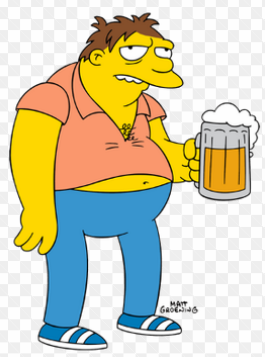
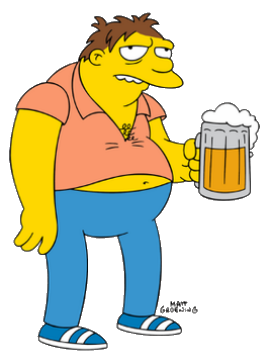
Redesign battle screen and clean up character portrait backgrounds
Mirrors the dev-branch commit: full-bleed Slay the Spire-style battle
layout (combatants standing on the scene, HP bars under each sprite,
enemy intent badges, an energy orb, fanned card-shaped ability buttons)
and wires the uploaded Disco_Zombie_Tapped_Out.webp to the generic
zombie enemies.

Also removes the baked-in opaque backgrounds from 12 character
portraits that had never gotten the transparency treatment Homer/Bart/
Marge/Lisa/Maggie already had: Moe, Ned Flanders, Apu, Barney, Chief
Wiggum, Krusty, Milhouse, Mr. Burns, Nelson, Principal Skinner, Ralph,
and Smithers. Ten of these had a checkerboard-preview pattern baked
into opaque RGB (not real transparency) and were cleaned via flood-fill
from the image border; Apu's had a full Kwik-E-Mart scene behind him
rather than a flat background, so that one needed real subject
segmentation (U2-Net/rembg) plus manual cleanup of a stray connected
shelf fragment. Same filenames, same dimensions -- no code changes
needed beyond what's already in data/assets.js.

Claude-Session: https://claude.ai/code/session_01BLhYftVG5RxN5Pn7gb7G5F

diff --git a/public/style.css b/public/style.css
@@ -68,7 +68,7 @@ body {
    screens.js -- never hardcode an asset path here, so new art can be
    swapped in from one place. position:fixed takes this screen out of
    #app's max-width flow so it always fills the real viewport. */
-body.menu-active #top-bar { display: none; }
+body.full-bleed-active #top-bar { display: none; }
 
 .console-menu-screen {
   position: fixed;
@@ -283,38 +283,64 @@ canvas#boardCanvas {
 .mayhem-readout { color: #ff5a3c; font-weight: 800; font-size: 0.85rem; letter-spacing: 1px; margin-top: 4px; }
 
 .hp-bar-outer {
-  width: 160px;
-  height: 16px;
+  position: relative;
+  width: 130px;
+  height: 18px;
   background: #400;
-  border-radius: 8px;
+  border-radius: 9px;
   overflow: hidden;
   border: 2px solid #000;
   margin: 0 auto;
 }
 .hp-bar-inner { height: 100%; width: 100%; background: #3ec24c; transition: width 0.2s; }
-.hp-text { font-size: 0.75rem; color: #ccc; }
+.hp-bar-label {
+  position: absolute;
+  inset: 0;
+  display: flex;
+  align-items: center;
+  justify-content: center;
+  font-size: 0.65rem;
+  font-weight: 800;
+  color: #fff;
+  text-shadow: 1px 1px 1px rgba(0, 0, 0, 0.8);
+}
 
-/* ---------------- Battle screen ---------------- */
+/* ---------------- Battle screen ----------------
+   Full-bleed like the console menu/episode-reveal screens (position:fixed
+   takes it out of #app's max-width flow); the scene fills the viewport and
+   combatants stand directly on it rather than inside a boxed panel, closer
+   to a Slay the Spire-style battle layout than a bordered widget. */
 .battle-screen {
-  padding: 10px;
+  position: fixed;
+  inset: 0;
+  z-index: 8;
+  display: flex;
+  flex-direction: column;
   background-size: cover;
   background-position: center;
   background-repeat: no-repeat;
   background-color: #1b1b1f;
-  min-height: calc(100vh - 52px);
+  padding: 0;
 }
+.battle-topbar { display: flex; justify-content: flex-end; padding: 14px 20px 0; }
+.mayhem-readout {
+  color: #ff5a3c;
+  font-weight: 800;
+  font-size: 0.8rem;
+  letter-spacing: 1px;
+  background: rgba(0, 0, 0, 0.45);
+  padding: 4px 10px;
+  border-radius: 8px;
+}
+
 .battle-stage {
   position: relative;
+  flex: 1;
   display: flex;
-  align-items: center;
+  align-items: flex-end;
   justify-content: space-between;
   gap: 20px;
-  background: rgba(10, 10, 14, 0.45);
-  border-radius: 12px;
-  padding: 20px;
-  max-width: 900px;
-  min-height: 320px;
-  margin: 0 auto;
+  padding: 0 6vw 20px;
 }
 .battle-stage.shake { animation: battleShake 0.35s; }
 @keyframes battleShake {
@@ -324,46 +350,122 @@ canvas#boardCanvas {
   60% { transform: translateX(-5px); }
   80% { transform: translateX(4px); }
 }
-.battle-side { display: flex; flex-direction: column; align-items: center; gap: 4px; position: relative; }
-.battle-side-player { flex: 0 0 180px; }
-.battle-side-enemies { flex: 1; display: flex; flex-wrap: wrap; gap: 16px; justify-content: center; align-items: flex-start; }
-.battle-vs { font-weight: 900; font-size: 1.4rem; color: #f6d217; }
-.battle-portrait { height: 140px; width: auto; object-fit: contain; filter: drop-shadow(0 6px 8px rgba(0, 0, 0, 0.5)); }
-.battle-portrait-fallback { font-size: 5rem; }
-.battle-name { font-weight: 800; }
-.energy-readout { font-weight: 800; color: #38b6ff; }
+
+.battle-combatant { display: flex; flex-direction: column; align-items: center; gap: 4px; position: relative; }
+.battle-combatant-player { flex: 0 0 200px; }
+.battle-enemies-row { flex: 1; display: flex; flex-wrap: wrap; gap: 24px; justify-content: center; align-items: flex-end; }
+
+.battle-portrait { height: min(30vh, 220px); width: auto; object-fit: contain; filter: drop-shadow(0 10px 12px rgba(0, 0, 0, 0.55)); }
+.battle-portrait-fallback { font-size: 5rem; filter: drop-shadow(0 10px 12px rgba(0, 0, 0, 0.55)); }
+
+.combatant-footer { display: flex; flex-direction: column; align-items: center; gap: 3px; background: rgba(0, 0, 0, 0.4); border-radius: 8px; padding: 4px 10px; }
+.combatant-name { font-weight: 800; font-size: 0.8rem; text-shadow: 1px 1px 1px #000; }
 
 .enemy-slot { display: flex; flex-direction: column; align-items: center; gap: 4px; position: relative; border-radius: 10px; transition: transform 0.15s ease; }
 .enemy-slot.dead { opacity: 0.25; pointer-events: none; }
-.battle-enemies.targeting-mode .enemy-slot:not(.dead) { cursor: pointer; outline: 2px dashed rgba(246, 210, 23, 0.6); }
-.battle-enemies.targeting-mode .enemy-slot:not(.dead):hover { transform: scale(1.06); }
-.enemy-intent { font-weight: 800; font-size: 0.9rem; background: rgba(0, 0, 0, 0.55); border-radius: 8px; padding: 2px 8px; min-height: 1.4em; }
-.status-row { display: flex; gap: 4px; flex-wrap: wrap; justify-content: center; font-size: 0.75rem; font-weight: 700; }
-.status-pip { background: rgba(0, 0, 0, 0.4); border-radius: 6px; padding: 1px 5px; }
+.battle-enemies-row.targeting-mode .enemy-slot:not(.dead) { cursor: pointer; }
+.battle-enemies-row.targeting-mode .enemy-slot:not(.dead) .battle-portrait,
+.battle-enemies-row.targeting-mode .enemy-slot:not(.dead) .battle-portrait-fallback {
+  outline: 3px dashed rgba(246, 210, 23, 0.7);
+  outline-offset: 6px;
+  border-radius: 12px;
+}
+.battle-enemies-row.targeting-mode .enemy-slot:not(.dead):hover { transform: scale(1.06); }
+.enemy-intent { font-weight: 800; font-size: 0.85rem; background: rgba(0, 0, 0, 0.6); border-radius: 8px; padding: 2px 8px; min-height: 1.4em; }
+.status-row { display: flex; gap: 4px; flex-wrap: wrap; justify-content: center; font-size: 0.72rem; font-weight: 700; }
+.status-pip { background: rgba(0, 0, 0, 0.45); border-radius: 6px; padding: 1px 5px; }
 
-.battle-log { max-width: 900px; margin: 8px auto; font-size: 0.8rem; color: #c9c9d3; text-align: left; min-height: 20px; }
+.battle-log {
+  max-width: 480px;
+  margin: 0 auto;
+  font-size: 0.78rem;
+  color: #c9c9d3;
+  text-align: center;
+  min-height: 18px;
+  text-shadow: 1px 1px 1px #000;
+}
 
-.battle-abilities { display: flex; gap: 10px; flex-wrap: wrap; justify-content: center; max-width: 900px; margin: 10px auto 0; }
+.battle-hand-bar {
+  display: flex;
+  align-items: center;
+  gap: 14px;
+  padding: 12px 20px 20px;
+  background: linear-gradient(to top, rgba(0, 0, 0, 0.55), rgba(0, 0, 0, 0));
+}
+
+.energy-orb {
+  flex: 0 0 auto;
+  width: 54px;
+  height: 54px;
+  border-radius: 50%;
+  background: radial-gradient(circle at 35% 30%, #6fd0ff, #0e63a8 70%);
+  border: 3px solid #38b6ff;
+  display: flex;
+  align-items: baseline;
+  justify-content: center;
+  color: #fff;
+  font-weight: 900;
+  font-size: 1.4rem;
+  box-shadow: 0 0 14px rgba(56, 182, 255, 0.6);
+}
+.energy-orb small { font-size: 0.7rem; font-weight: 700; margin-left: 1px; }
+
+.battle-abilities { flex: 1; display: flex; gap: 10px; justify-content: center; overflow-x: auto; padding: 10px 0; }
 .ability-btn {
-  background: #26262e;
-  border: 2px solid #444;
-  border-radius: 10px;
-  padding: 8px 10px;
-  width: 150px;
+  flex: 0 0 auto;
+  background: linear-gradient(to bottom, #33333c, #26262e);
+  border: 2px solid #555;
+  border-radius: 14px 14px 8px 8px;
+  padding: 10px 8px 8px;
+  width: 108px;
   color: #fff8ea;
   cursor: pointer;
   display: flex;
   flex-direction: column;
   align-items: center;
-  gap: 2px;
+  gap: 3px;
+  position: relative;
+  transition: transform 0.15s ease, border-color 0.15s ease;
 }
-.ability-btn:hover:not(:disabled) { border-color: #f6d217; }
+.ability-btn:not(:last-child) { margin-right: -14px; }
+.ability-btn:hover:not(:disabled) { border-color: #f6d217; transform: translateY(-10px); z-index: 2; }
 .ability-btn:disabled { opacity: 0.4; cursor: not-allowed; }
-.ability-btn.targeting { border-color: #3ec24c; box-shadow: 0 0 0 2px rgba(62, 194, 76, 0.5); }
-.ability-cost { font-size: 0.7rem; color: #f6d217; font-weight: 800; }
-.ability-emoji { font-size: 1.6rem; }
-.ability-name { font-weight: 700; font-size: 0.85rem; }
-.ability-desc { font-size: 0.68rem; color: #c9c9d3; text-align: center; }
+.ability-btn.targeting { border-color: #3ec24c; box-shadow: 0 0 0 2px rgba(62, 194, 76, 0.5); transform: translateY(-10px); }
+.ability-cost {
+  position: absolute;
+  top: -8px;
+  left: -8px;
+  width: 22px;
+  height: 22px;
+  border-radius: 50%;
+  background: #0e63a8;
+  border: 2px solid #38b6ff;
+  display: flex;
+  align-items: center;
+  justify-content: center;
+  font-size: 0.7rem;
+  color: #fff;
+  font-weight: 800;
+}
+.ability-emoji { font-size: 1.7rem; margin-top: 4px; }
+.ability-name { font-weight: 700; font-size: 0.78rem; text-align: center; }
+.ability-desc { font-size: 0.62rem; color: #c9c9d3; text-align: center; line-height: 1.25; }
+
+.end-turn-btn {
+  flex: 0 0 auto;
+  background: #f6d217;
+  color: #1b1b1f;
+  border: none;
+  border-radius: 12px;
+  padding: 10px 18px;
+  font-weight: 900;
+  font-size: 0.85rem;
+  line-height: 1.2;
+  cursor: pointer;
+  box-shadow: 0 4px 0 #b89b0f;
+}
+.end-turn-btn:hover { background: #ffe14d; }
+.end-turn-btn:active { transform: translateY(3px); box-shadow: 0 1px 0 #b89b0f; }
 
 .floating-number {
   position: absolute;
@@ -383,7 +485,7 @@ canvas#boardCanvas {
 }
 
 /* ---------------- Boss intro ---------------- */
-.boss-intro-screen { display: flex; align-items: center; justify-content: center; min-height: calc(100vh - 52px); background: #0a0a0e; }
+.boss-intro-screen { position: fixed; inset: 0; z-index: 9; display: flex; align-items: center; justify-content: center; background: #0a0a0e; }
 .boss-intro-content { text-align: center; cursor: pointer; padding: 30px; max-width: 500px; }
 .boss-intro-portrait { height: 200px; width: auto; object-fit: contain; margin-bottom: 12px; filter: drop-shadow(0 8px 10px rgba(0, 0, 0, 0.6)); }
 .boss-intro-name {
@@ -400,7 +502,7 @@ canvas#boardCanvas {
 #banner-text {
   position: fixed;
   left: 50%;
-  bottom: 12%;
+  bottom: 20%;
   transform: translateX(-50%);
   z-index: 40;
   max-width: min(90vw, 560px);

diff --git a/public/src/ui/screens.js b/public/src/ui/screens.js
@@ -27,9 +27,9 @@ const SCREEN_IDS = [
   'screen-run-failure',
 ];
 
-// Screens that get the full-bleed console title-screen treatment: no top
-// bar, background art fills the real viewport instead of #app's max-width.
-const MENU_ACTIVE_SCREEN_IDS = new Set(['screen-main-menu', 'screen-episode-reveal']);
+// Screens that get the full-bleed treatment: no top bar, background art
+// fills the real viewport instead of #app's max-width.
+const FULL_BLEED_SCREEN_IDS = new Set(['screen-main-menu', 'screen-episode-reveal', 'screen-battle', 'screen-boss-intro']);
 
 const $ = (id) => document.getElementById(id);
 
@@ -44,7 +44,7 @@ export function showScreen(id) {
   for (const screenId of SCREEN_IDS) {
     $(screenId).classList.toggle('hidden', screenId !== id);
   }
-  document.body.classList.toggle('menu-active', MENU_ACTIVE_SCREEN_IDS.has(id));
+  document.body.classList.toggle('full-bleed-active', FULL_BLEED_SCREEN_IDS.has(id));
 }
 
 export function updateMetaReadout(meta) {
@@ -234,7 +234,7 @@ export function populateBossIntro(boss, onStart) {
 
 // ---------- BATTLE ----------
 function resolveEnemyPortrait(templateId) {
-  return getAssetUrl('bosses', templateId) || getAssetUrl('characters', templateId) || null;
+  return getAssetUrl('bosses', templateId) || getAssetUrl('enemies', templateId) || getAssetUrl('characters', templateId) || null;
 }
 
 function statusPipsHtml(statuses) {
@@ -270,11 +270,12 @@ export function populateBattle(battle, runState, handlers) {
     const portraitUrl = resolveEnemyPortrait(enemy.templateId);
     slot.innerHTML = `
       <div class="enemy-intent"></div>
-      ${portraitUrl ? `<img class="battle-portrait enemy-portrait" src="${portraitUrl}" alt="" />` : `<div class="battle-portrait-fallback">${enemy.emoji}</div>`}
-      <div class="battle-name">${enemy.name}</div>
-      <div class="hp-bar-outer"><div class="hp-bar-inner"></div></div>
-      <div class="hp-text"></div>
       <div class="status-row"></div>
+      ${portraitUrl ? `<img class="battle-portrait enemy-portrait" src="${portraitUrl}" alt="" />` : `<div class="battle-portrait-fallback">${enemy.emoji}</div>`}
+      <div class="combatant-footer">
+        <div class="combatant-name">${enemy.name}</div>
+        <div class="hp-bar-outer"><div class="hp-bar-inner"></div><span class="hp-bar-label"></span></div>
+      </div>
     `;
     slot.addEventListener('click', () => handlers.onTargetEnemy(enemy.instanceId));
     enemiesContainer.appendChild(slot);
@@ -308,7 +309,8 @@ export function renderBattle(battle, runState) {
   $('battle-player-hp-bar').style.background = p.hp / p.maxHp < 0.3 ? '#d0021b' : '#3ec24c';
   $('battle-player-hp-text').textContent = `${Math.max(0, Math.round(p.hp))} / ${p.maxHp}`;
   $('battle-player-statuses').innerHTML = statusPipsHtml(p.statuses);
-  $('battle-energy-readout').textContent = `⚡ ${p.energy} / ${p.maxEnergy}`;
+  $('battle-energy-value').textContent = p.energy;
+  document.querySelector('#battle-energy-readout small').textContent = `/${p.maxEnergy}`;
   $('battle-mayhem-readout').textContent = `☠ MAYHEM: ${runState.mayhem}%`;
 
   for (const enemy of battle.enemies) {
@@ -317,7 +319,7 @@ export function renderBattle(battle, runState) {
     const dead = enemy.hp <= 0;
     slot.classList.toggle('dead', dead);
     slot.querySelector('.hp-bar-inner').style.width = `${Math.max(0, (enemy.hp / enemy.maxHp) * 100)}%`;
-    slot.querySelector('.hp-text').textContent = `${Math.max(0, Math.round(enemy.hp))} / ${enemy.maxHp}`;
+    slot.querySelector('.hp-bar-label').textContent = `${Math.max(0, Math.round(enemy.hp))} / ${enemy.maxHp}`;
     slot.querySelector('.status-row').innerHTML = statusPipsHtml(enemy.statuses);
     const intentEl = slot.querySelector('.enemy-intent');
     intentEl.textContent = !dead && enemy.intent ? `${enemy.intent.icon} ${enemy.intent.label}` : '';

diff --git a/public/index.html b/public/index.html
@@ -133,22 +133,33 @@
 
   <!-- ================= BATTLE (turn-based combat / elite / boss nodes) ================= -->
   <section id="screen-battle" class="screen battle-screen">
-    <div id="battle-mayhem-readout" class="mayhem-readout">☠ MAYHEM: 0%</div>
-    <div class="battle-stage">
-      <div id="battle-side-player" class="battle-side battle-side-player">
-        <img id="battle-player-portrait" class="battle-portrait hidden" alt="" />
-        <div id="battle-player-name" class="battle-name">HOMER</div>
-        <div class="hp-bar-outer"><div id="battle-player-hp-bar" class="hp-bar-inner"></div></div>
-        <div id="battle-player-hp-text" class="hp-text">150 / 150</div>
-        <div id="battle-player-statuses" class="status-row"></div>
-        <div id="battle-energy-readout" class="energy-readout">⚡ 3 / 3</div>
-      </div>
-      <div class="battle-vs">VS</div>
-      <div id="battle-enemies" class="battle-side battle-side-enemies"></div>
+    <div class="battle-topbar">
+      <div id="battle-mayhem-readout" class="mayhem-readout">☠ MAYHEM: 0%</div>
     </div>
+
+    <div class="battle-stage">
+      <div id="battle-side-player" class="battle-combatant battle-combatant-player">
+        <div id="battle-player-statuses" class="status-row"></div>
+        <img id="battle-player-portrait" class="battle-portrait hidden" alt="" />
+        <div class="combatant-footer">
+          <div id="battle-player-name" class="combatant-name">HOMER</div>
+          <div class="hp-bar-outer">
+            <div id="battle-player-hp-bar" class="hp-bar-inner"></div>
+            <span id="battle-player-hp-text" class="hp-bar-label">150 / 150</span>
+          </div>
+        </div>
+      </div>
+
+      <div id="battle-enemies" class="battle-enemies-row"></div>
+    </div>
+
     <div id="battle-log" class="battle-log"></div>
-    <div id="battle-abilities" class="battle-abilities"></div>
-    <button id="btn-battle-end-turn" class="menu-link-button">END TURN</button>
+
+    <div class="battle-hand-bar">
+      <div id="battle-energy-readout" class="energy-orb"><span id="battle-energy-value">3</span><small>/3</small></div>
+      <div id="battle-abilities" class="battle-abilities"></div>
+      <button id="btn-battle-end-turn" class="end-turn-btn">End<br />Turn</button>
+    </div>
   </section>
 
   <!-- Floating toast for shop pickups / NPC lines / relationship shifts --

diff --git a/public/src/data/assets.js b/public/src/data/assets.js
@@ -44,8 +44,18 @@ export const ASSET_MANIFEST = {
   npcs: {},
   // Pickups: donuts and data/items.js entries, keyed by item id ('donut' for the donut itself).
   items: {},
-  // data/enemies.js entries, keyed by enemy id.
-  enemies: {},
+  // data/enemies.js entries, keyed by enemy id. The generic (unnamed)
+  // zombie mob shares one uploaded sprite; Patient Zero Flanders is a named
+  // character so he keeps his own portrait instead.
+  enemies: {
+    zombieBarfly: `${BASE}/enemies/Disco_Zombie_Tapped_Out.webp`,
+    zombieMobGuy: `${BASE}/enemies/Disco_Zombie_Tapped_Out.webp`,
+    shamblingIntern: `${BASE}/enemies/Disco_Zombie_Tapped_Out.webp`,
+    undeadCafeteriaLady: `${BASE}/enemies/Disco_Zombie_Tapped_Out.webp`,
+    zombieGroundskeeper: `${BASE}/enemies/Disco_Zombie_Tapped_Out.webp`,
+    zombieHorde: `${BASE}/enemies/Disco_Zombie_Tapped_Out.webp`,
+    patientZeroFlanders: `${BASE}/characters/Ned%20Flanders.png`,
+  },
   // data/bosses.js entries, keyed by boss id. Chief Wiggum and Mr. Burns reuse
   // their characters/ portrait here for the in-arena boss sprite -- one image
   // file, two lookup entries for two different rendering contexts.
